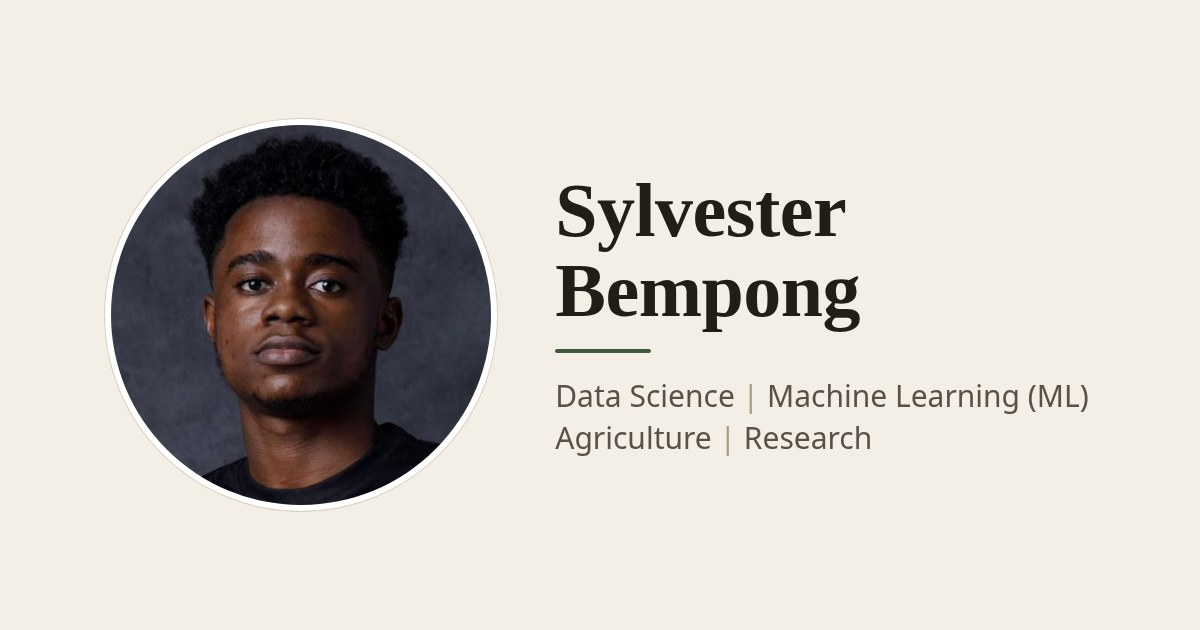
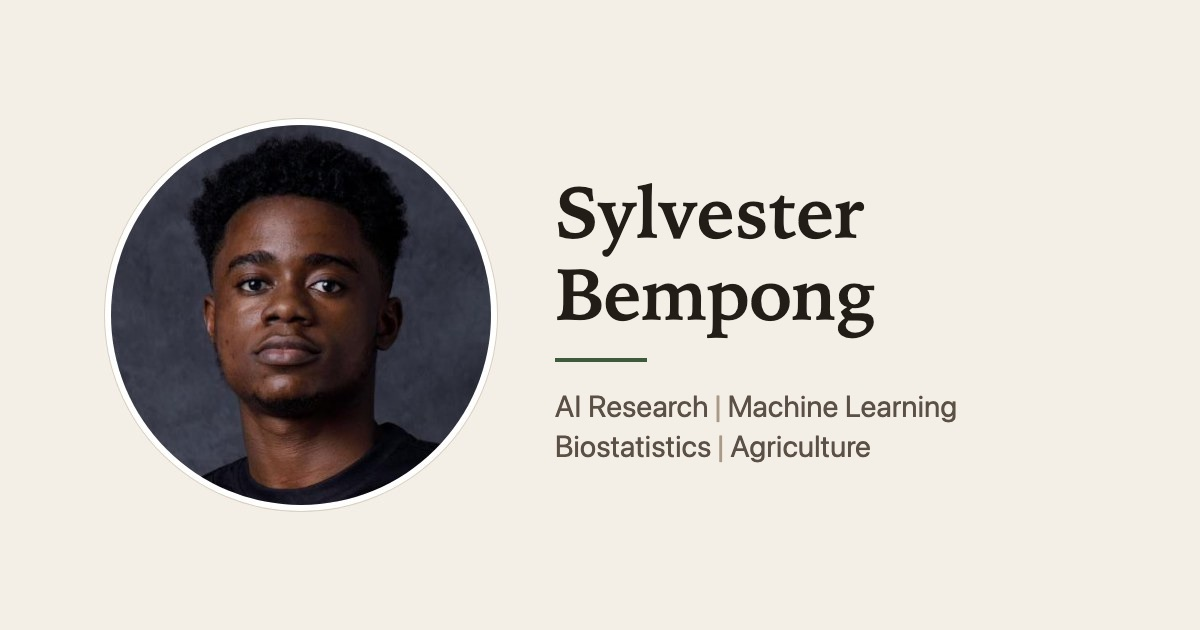
feat(home): lead tagline with AI Research and add Biostatistics
Replace "Data Science | Machine Learning (ML) | Agriculture | Research"
with "AI Research | Machine Learning | Biostatistics | Agriculture",
keeping the two-group layout so it still splits into two lines on phones.

Update the meta descriptions and OG image alt text that repeat the
interests, and regenerate og-image.jpg with the new tagline (photo and
layout unchanged).

Changed region(s): [[0.4625, 0.3016, 0.74, 0.5429], [0.4625, 0.6032, 0.8942, 0.7238], [0.4625, 0.5429, 0.555, 0.573]]

diff --git a/index.html b/index.html
@@ -4,18 +4,18 @@
 <meta charset="utf-8">
 <meta name="viewport" content="width=device-width,initial-scale=1">
 <title>Sylvester Bempong</title>
-<meta name="description" content="Sylvester Bempong, a Bachelor of Science (BSc) student in Agricultural and Mechanical Engineering at the University of Cape Coast (UCC), Ghana, interested in Data Science, Machine Learning (ML), Agriculture and Research.">
+<meta name="description" content="Sylvester Bempong, a Bachelor of Science (BSc) student in Agricultural and Mechanical Engineering at the University of Cape Coast (UCC), Ghana, interested in AI Research, Machine Learning (ML), Biostatistics and Agriculture.">
 <meta property="og:type" content="website">
 <meta property="og:title" content="Sylvester Bempong">
-<meta property="og:description" content="Sylvester Bempong, a Bachelor of Science (BSc) student in Agricultural and Mechanical Engineering at the University of Cape Coast (UCC), Ghana, interested in Data Science, Machine Learning (ML), Agriculture and Research.">
+<meta property="og:description" content="Sylvester Bempong, a Bachelor of Science (BSc) student in Agricultural and Mechanical Engineering at the University of Cape Coast (UCC), Ghana, interested in AI Research, Machine Learning (ML), Biostatistics and Agriculture.">
 <meta property="og:url" content="https://sbempong.github.io/">
 <meta property="og:image" content="https://sbempong.github.io/og-image.jpg">
 <meta property="og:image:width" content="1200">
 <meta property="og:image:height" content="630">
-<meta property="og:image:alt" content="Profile photo of Sylvester Bempong beside his name and interests: Data Science, Machine Learning (ML), Agriculture and Research.">
+<meta property="og:image:alt" content="Profile photo of Sylvester Bempong beside his name and interests: AI Research, Machine Learning (ML), Biostatistics and Agriculture.">
 <meta name="twitter:card" content="summary_large_image">
 <meta name="twitter:title" content="Sylvester Bempong">
-<meta name="twitter:description" content="Sylvester Bempong, a Bachelor of Science (BSc) student in Agricultural and Mechanical Engineering at the University of Cape Coast (UCC), Ghana, interested in Data Science, Machine Learning (ML), Agriculture and Research.">
+<meta name="twitter:description" content="Sylvester Bempong, a Bachelor of Science (BSc) student in Agricultural and Mechanical Engineering at the University of Cape Coast (UCC), Ghana, interested in AI Research, Machine Learning (ML), Biostatistics and Agriculture.">
 <meta name="twitter:image" content="https://sbempong.github.io/og-image.jpg">
 <meta name="theme-color" content="#f4efe6">
 <link rel="icon" href="avatar.png">
@@ -30,7 +30,7 @@
 <header class="top">
   <img class="avatar" src="avatar.png" width="140" height="140" alt="Profile photo of Sylvester Bempong">
   <h1>Sylvester Bempong</h1>
-  <p class="tag"><span class="tg">Data Science <span class="sep" aria-hidden="true">|</span> Machine Learning (ML)</span><span class="sep sep-mid" aria-hidden="true"> | </span><span class="tg">Agriculture <span class="sep" aria-hidden="true">|</span> Research</span></p>
+  <p class="tag"><span class="tg">AI Research <span class="sep" aria-hidden="true">|</span> Machine Learning</span><span class="sep sep-mid" aria-hidden="true"> | </span><span class="tg">Biostatistics <span class="sep" aria-hidden="true">|</span> Agriculture</span></p>
   <nav aria-label="Sections"><ul class="tabs" id="tabs">
     <li><a href="#home" id="t-home">Home</a></li>
     <li><a href="#projects" id="t-projects">Projects</a></li>
